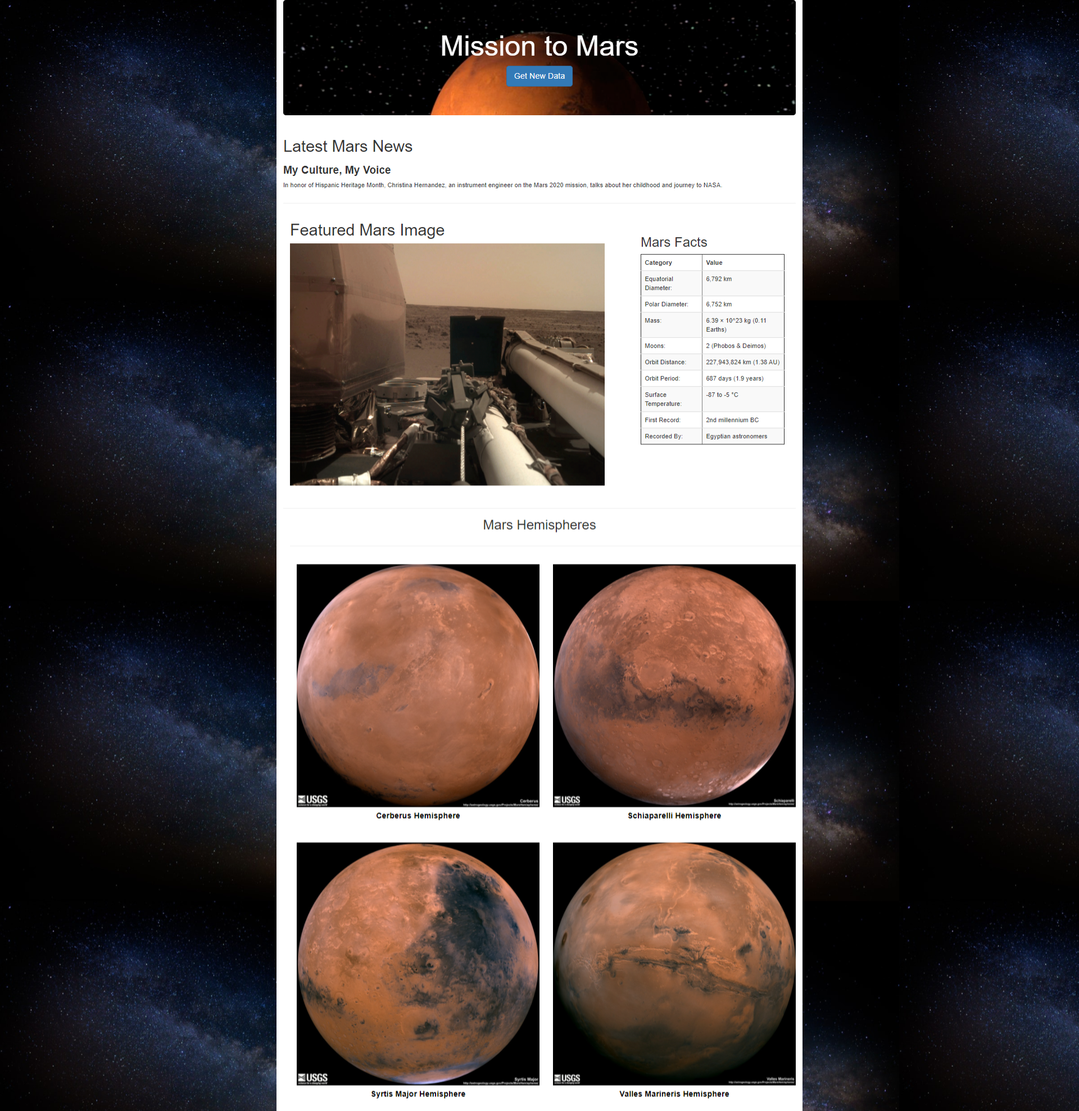
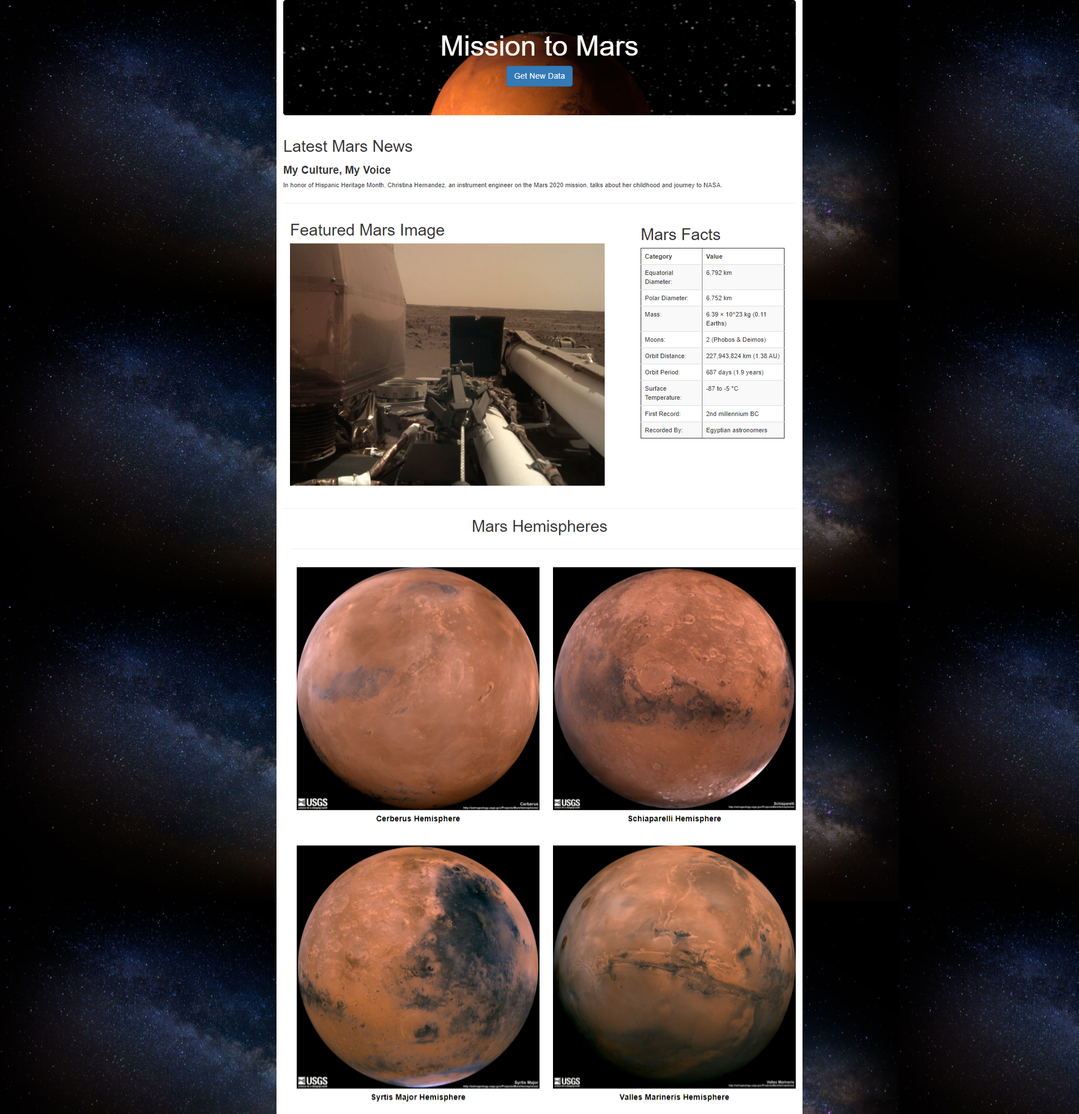
update readme and html

diff --git a/templates/index.html b/templates/index.html
@@ -34,10 +34,9 @@
           <img src="{{mars.featured_url}}" style="max-width:700px; max-height: auto; margin-bottom: 30px; text-align:left;" alt="Featured Mars Image"/>
         </div>
         <!--- Mars Facts -->
-          <br>
           <div class="row" id="mars_facts">
               <div class="col-lg-4 col-sm-12;"  style = 'max-width: 350px; margin-right: 10px; margin-top: 10px'>
-                  <h2>Mars Facts</h2>
+                  <h1>Mars Facts</h1>
                   {{mars.mars_table |safe}}
               </div>
           </div>  
@@ -45,7 +44,7 @@
     </div>  
     <hr>  
     <!-- Mars Hemispheres -->
-      <h2 style="text-align: center;">Mars Hemispheres</h2>
+      <h1 style="text-align: center;">Mars Hemispheres</h1>
         <div class="container">
           <hr>
             <div class="col-md-12">
